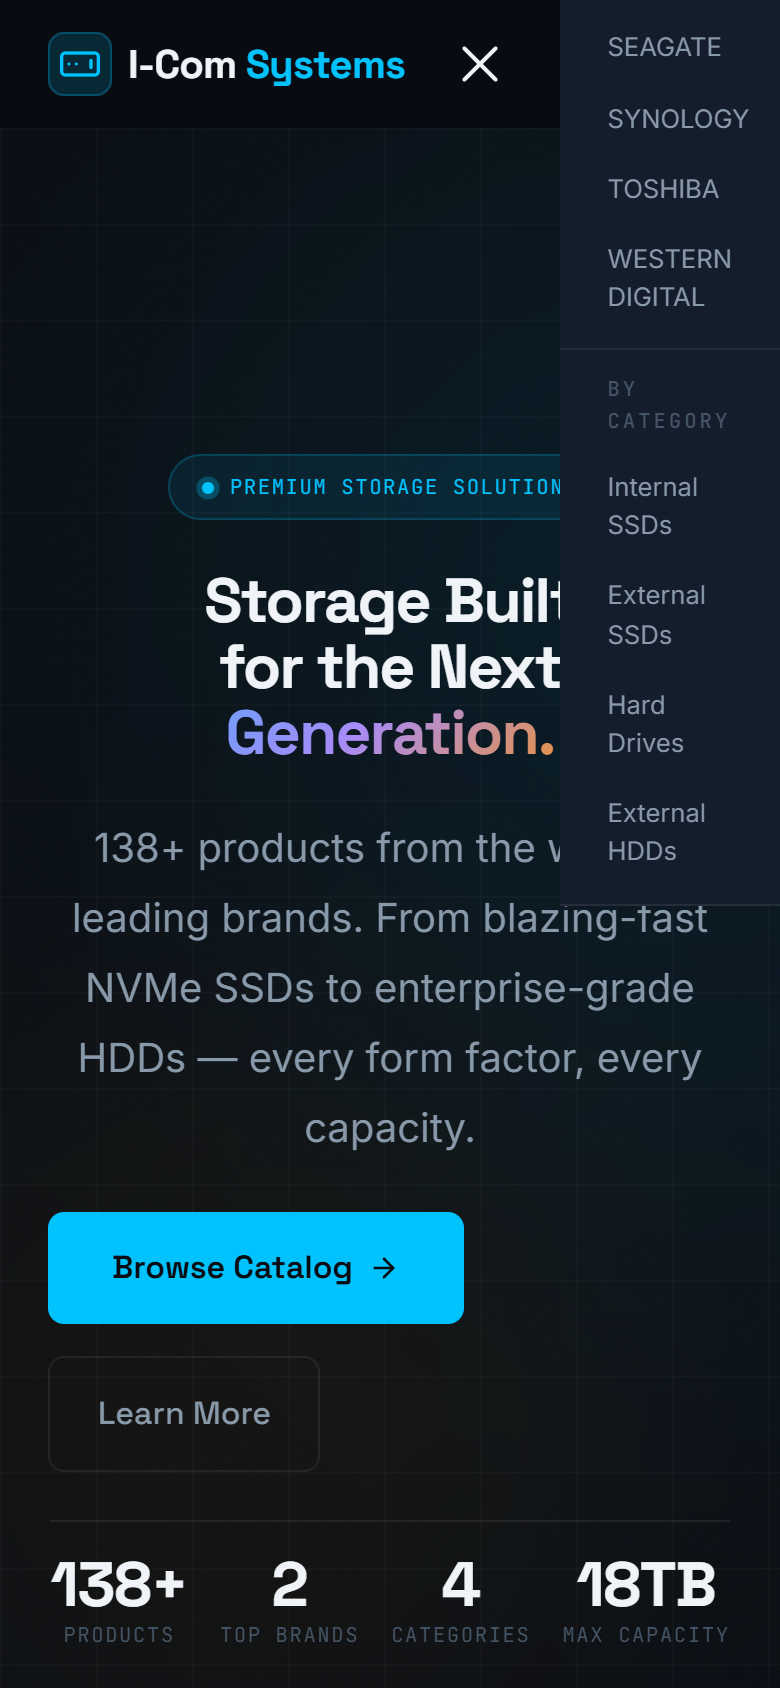
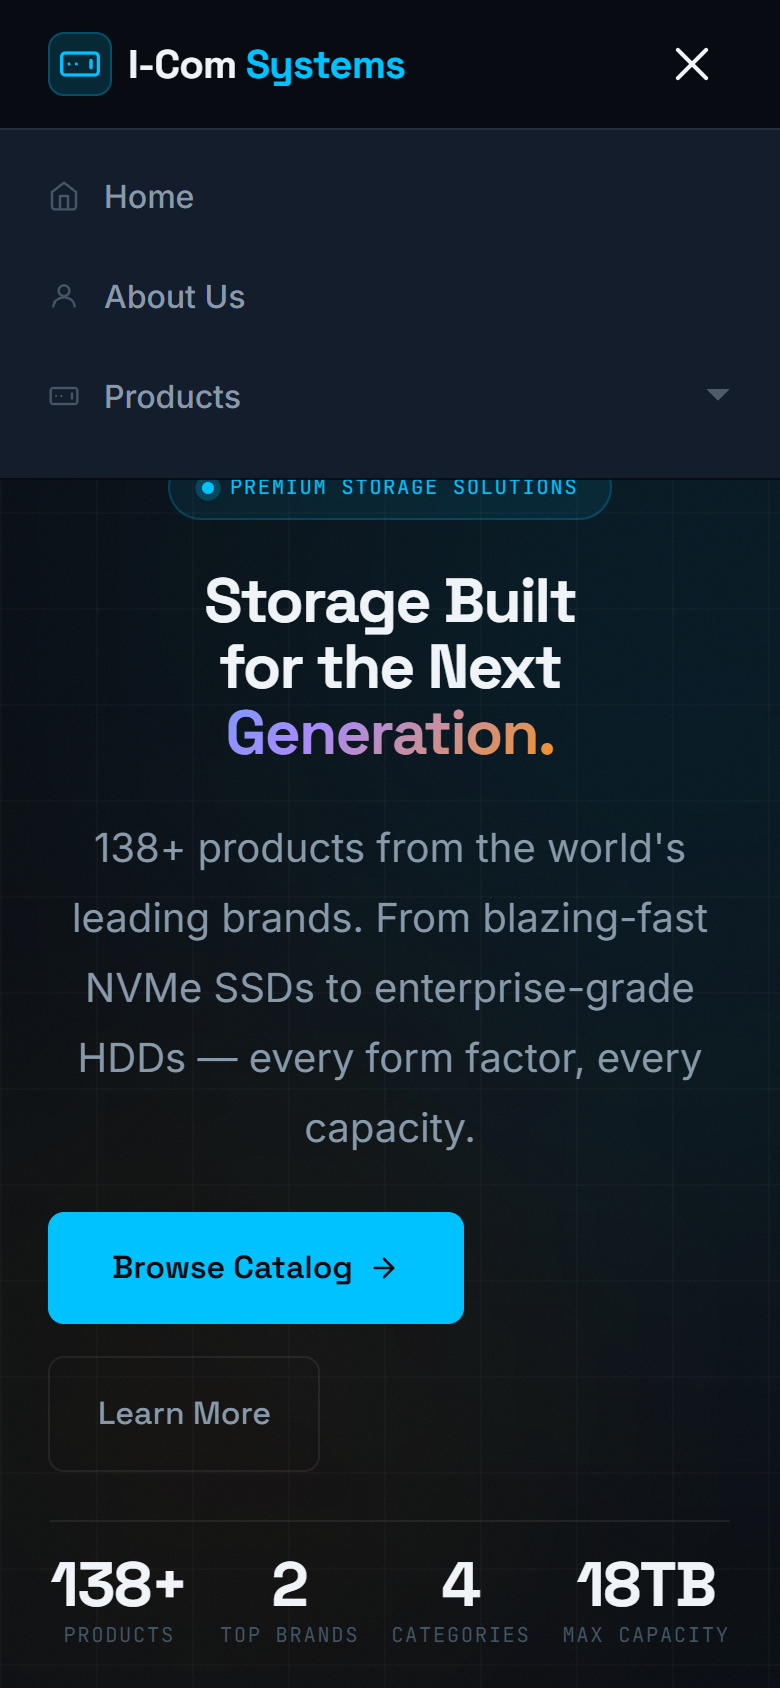
Update mobile nav screenshot and rewrite README
- Retake mobile-02-nav-open.png with the new accordion nav
- Rewrite README: business/client-oriented tone, minimal tech detail,
  screenshots inline with each page section, mobile view section

diff --git a/README.md b/README.md
@@ -1,38 +1,62 @@
 # I-Com Systems
 
-A premium dark-mode product catalog and brochure web app for **I-Com Systems** — a global storage hardware distributor carrying 138+ products across brands including Crucial, Seagate, Samsung, Western Digital, Toshiba, LaCie, Synology, and more.
+A premium online product catalog for **I-Com Systems** — a global distributor of storage hardware carrying 138+ products across the world's leading brands.
 
-Live deployment: [**icomsystems.netlify.app**](https://icomsystems.netlify.app/)
+**Live site: [icomsystems.netlify.app](https://icomsystems.netlify.app/)**
 
 ---
 
-## Screenshots
+## What It Does
 
-### Landing Page — Hero
+Customers can browse the full product catalog, filter by brand, type, and capacity, and view detailed specs for any drive — all in one fast, elegant web experience.
+
+### Key Capabilities
+
+- **Browse 138+ products** across SSDs, HDDs, and external drives
+- **Filter the catalog** by brand, type (SSD/HDD), usage (internal/external), capacity, and name search
+- **Jump directly to a brand** from the navigation dropdown
+- **View product details** — specs, image, and category at a glance
+- **Learn about the company** — history, milestones, team, and awards
+
+---
+
+## Pages
+
+### Home
+The landing page introduces the brand and product range — featuring a hero section with key stats, a live product marquee, category cards with real product counts, and brand-specific product carousels.
+
 ![Hero Section](screenshots/01-hero.png)
 
-### Products Mega-Menu Navigation
+### Products Mega-Menu
+The navigation includes a hover dropdown to browse by brand or product category directly.
+
 ![Mega Menu](screenshots/03-megamenu.png)
 
 ### Product Catalog
+A full filterable catalog with a sidebar for narrowing results. Filters include type, usage, brand, capacity, and name search. Each card links to the product detail page.
+
 ![Product Catalog](screenshots/02-products.png)
 
-### Product Detail Page
+### Product Detail
+A dedicated page per product showing the full image, specs, and breadcrumb navigation.
+
 ![Product Detail](screenshots/04-product-detail.png)
 
-### About Page
+### About
+Company background, founding history, global office locations, a timeline of milestones, team profiles, and an awards carousel.
+
 ![About Page](screenshots/05-about.png)
 
 ---
 
 ## Mobile View
 
-Full mobile responsiveness at 390×844 (iPhone 14). Hamburger nav, stacked layouts, and touch-optimised interactions.
+Fully optimised for phones — the navigation collapses into a clean hamburger menu with an accordion-style Products panel to browse brands and categories.
 
-### Mobile Hero
+### Mobile Home
 ![Mobile Hero](screenshots/mobile-01-hero.png)
 
-### Mobile Navigation (Open)
+### Mobile Navigation
 ![Mobile Nav Open](screenshots/mobile-02-nav-open.png)
 
 ### Mobile Product Catalog
@@ -46,214 +70,36 @@ Full mobile responsiveness at 390×844 (iPhone 14). Hamburger nav, stacked layou
 
 ---
 
-## What the App Does
+## Brands Covered
 
-I-Com Systems is a single-page React application that serves as a **product catalog and company brochure** for a storage hardware distributor. It fetches live product data from a Flask backend, renders a filterable catalog of 138+ drives, and provides individual product detail pages — all wrapped in a premium SAAS-level dark UI.
-
-### Core Features
-
-| Feature | Description |
-|---|---|
-| **Live product data** | Fetched from a Flask/Python backend (`/api/products`), cached client-side |
-| **Filterable catalog** | Filter by Type (SSD/HDD/Other), Usage (Internal/External), Capacity, Brand, and free-text search |
-| **Product detail pages** | Per-product page with specs, image, breadcrumb navigation, routed via React Router |
-| **Brand mega-menu** | Fixed glass nav with a 2-column dropdown — browse by brand or category |
-| **About page** | Company history, stats, awards carousel, and team profiles |
-| **Fully responsive** | Mobile hamburger nav, responsive grid (4 → 3 → 2 → 1 columns) |
+Crucial · Seagate · Samsung · Western Digital · Toshiba · LaCie · Synology · Fyber
 
 ---
 
-## Pages
+## Tech Overview
 
-### `/` — Home
-The landing page is designed at SAAS marketing level:
-
-- **Hero section** — Full-viewport split layout with animated gradient blobs, floating product card, 3 rotating rings, NVMe/capacity/brand floating chips, and a scroll indicator. Stats strip (138+ products, 2 brands, 4 categories, 18TB max).
-- **Product marquee** — Dual-row infinite CSS auto-scroll of product images, pauses on hover.
-- **Features strip** — 4-column highlights: Blazing SSDs, Enterprise Reliability, Top-Tier Brands, Every Form Factor.
-- **Category grid** — 4 live category cards (Internal SSD, External SSD, HDD, External HDD) with real product counts and sample images pulled from the catalog.
-- **Product carousels** — Splide-powered sliders for each brand, showing cards with Quick View modal support.
-- **CTA banner** — Animated closing call-to-action section.
-
-### `/product-page` — Product Catalog
-Full product catalog with a sidebar + main content layout:
-
-- **Catalog hero** — Page banner with animated blob background and live product count.
-- **Sticky sidebar filter** — Custom-styled checkboxes (Type, Usage, Brand), capacity dropdown, and name search. Apply / Reset controls.
-- **Active filter pills** — Shows currently active filters as dismissible tags above the grid.
-- **Product grid** — 4-column responsive card grid per brand section. Cards feature hover lift, shine sweep, and "View Details" overlay. "Show More" per brand to expand beyond the first row.
-- **Hash routing** — Nav mega-menu links (e.g. `#hdr-CRUCIAL`) scroll directly to a brand section.
-
-### `/product/:brand/id/:id` — Product Detail
-Individual product page:
-
-- Gradient mesh hero banner with brand label.
-- Split layout: image frame card (left) + spec table (right) with staggered Framer Motion reveal.
-- Specs: Type, Usage, Capacity.
-- Breadcrumb navigation: Products → Brand → Product name.
-- Back to Products button.
-
-### `/about-page` — About
-Company brochure page:
-
-- **Hero** — Centered full-width section with animated blobs, gradient headline, brand badge row with pulse animation, and 4-stat glassmorphism card (Founded, Products, Offices, Years of Trust).
-- **Awards & Recognition** — Full-width Splide fade carousel of award images with a proper section header.
-- **Company story** — 3-column glassmorphism card: narrative text + location chips + 4 highlight tiles (Headquarters, Industries, Founder, Catalog).
-- **Timeline** — 2-column grid of milestone cards (1954 → 1980s → 2000s → Today) with glowing dot markers and `whileInView` stagger animations.
-- **Team** — Profile cards with photo, role, tag badge, bio, and mini metrics.
-
-### `/about-page` — 404
-Custom not-found page with a back-to-home button.
-
----
-
-## Tech Stack
-
-| Layer | Technology |
+| | |
 |---|---|
-| Frontend framework | React 18 (Create React App) |
-| Routing | React Router v6 |
-| Animations | Framer Motion |
-| Carousels | `@splidejs/react-splide` |
-| Backend | Flask (Python) — serves CSV product data via `/api/products` |
-| Styling | Pure CSS with a full CSS custom property design system |
-| Fonts | Inter (body) · Space Grotesk (headings) · JetBrains Mono (specs/labels) |
+| Frontend | React 18, React Router v6, Framer Motion |
+| Styling | CSS custom properties design system (no UI framework) |
+| Carousels | Splide |
+| Backend | Flask (Python) — serves product data from CSV via `/api/products` |
+| Fonts | Space Grotesk · Inter · JetBrains Mono |
 | Deployment | Netlify (frontend) |
 
----
-
-## Design System
-
-All design tokens live in `src/index.css` as CSS custom properties:
-
-```
-Palette:   --color-bg-base #080c12  ·  --color-accent-primary #00c2ff  ·  --color-accent-secondary #ff9500
-Spacing:   8pt grid — --space-1 (4px) through --space-32 (128px)
-Type:      1.25 Major Third scale — --text-xs through --text-4xl
-Shadows:   --shadow-sm/md/lg/xl  ·  --glow-primary  ·  --glow-card
-Radii:     --radius-sm (4px) through --radius-full
-Transitions: --transition-fast (150ms) through --transition-spring (500ms spring)
-```
-
-Key visual treatments:
-- **Glassmorphism** — `backdrop-filter: blur()` + `rgba` fills on nav, cards, modals, and dropdowns
-- **Animated blobs** — Radial gradient `div`s with `filter: blur()` drifting via CSS keyframes
-- **Framer Motion** — `whileInView` stagger reveals, `AnimatePresence` for dropdown/modal enter/exit, spring transitions on cards
-- **CSS marquee** — Pure CSS infinite scroll (`translateX(-50%)`) with duplicated item arrays, pauses on hover
-
----
-
-## Project Structure
-
-```
-src/
-├── components/
-│   ├── HomePage/
-│   │   ├── HeroSection.jsx / .css      # Full-viewport hero
-│   │   ├── ProductMarquee.jsx / .css   # Infinite CSS scroll strip
-│   │   ├── FeaturesStrip.jsx / .css    # 4-column feature highlights
-│   │   ├── CategoryGrid.jsx / .css     # Live category cards
-│   │   ├── SpliderSet.jsx              # Brand carousel orchestrator
-│   │   ├── MySplider.jsx / .css        # Splide carousel wrapper
-│   │   ├── ProductCard.jsx / .css      # Card + Quick View modal
-│   │   ├── CTABanner.jsx / .css        # Closing CTA
-│   │   ├── MyHeader.jsx / .css         # Fixed glass nav + mega-menu
-│   │   ├── MyFooter.jsx                # Dark footer
-│   │   └── Home.jsx                   # Home page orchestrator
-│   ├── ProductPage/
-│   │   ├── ProductsHome.jsx / .css     # Catalog layout + hero
-│   │   ├── Filter.jsx / .css           # Sidebar filter panel
-│   │   ├── FilterParams.jsx / .css     # Active filter pills
-│   │   └── AvailableProducts.jsx       # Filtered grid renderer
-│   ├── AboutPage/
-│   │   ├── AboutPage.jsx               # Page orchestrator + hero + timeline
-│   │   ├── Awards.jsx                  # Awards carousel section
-│   │   ├── CompanyInfo.jsx             # Glassmorphism story card
-│   │   └── PersonalInfo.jsx            # Team profile cards
-│   └── Layout/
-│       └── Layout.jsx / .css           # Route wrapper with page transitions
-├── scripts/
-│   ├── FetchData.js                    # API fetch + client-side cache
-│   ├── HelperFunctions.js              # processData(), imagesContext
-│   ├── CreateCards.js                  # JSX card + section header factory
-│   ├── FilterUtilities.js              # Filter logic, checkbox renderers
-│   └── SearchFunction.js              # Name search utility
-├── assets/                            # Award images (image1–5.jpg)
-└── index.css                          # Full design system (tokens + reset + utils)
-
-screenshots/                           # App screenshots for documentation
-public/
-└── index.html                         # Google Fonts preconnect
-```
-
----
-
-## Getting Started
-
-### Prerequisites
-
-- Node.js 16+
-- Python 3 + Flask (for the backend data server)
-
-### Install & Run
+### Running Locally
 
 ```bash
-# Install frontend dependencies
-npm install
-
-# Start the Flask backend (in a separate terminal)
-cd src/scripts
-python app.py        # runs on http://localhost:5000
-
-# Start the React dev server
-npm start            # runs on http://localhost:3000
+npm install && npm start        # React dev server → localhost:3000
+cd src/scripts && python app.py # Flask backend  → localhost:5000
 ```
-
-### Build for Production
 
 ```bash
-npm run build
+npm run build                   # Production build → /build
 ```
-
-The optimised output is placed in `build/`. Deploy to any static host (Netlify, Vercel, etc.) — ensure your host proxies `/api/*` to the Flask backend.
-
----
-
-## Data Flow
-
-```
-Flask backend (app.py)
-  └── reads product CSVs
-  └── exposes GET /api/products  →  { brand: { Name, Capacity, Usage, Type, ... } }
-
-FetchData.js
-  └── fetches on app load, caches in sessionStorage
-  └── passes raw data down as props
-
-HelperFunctions.js → processData()
-  └── flattens data, attaches images via require.context
-  └── returns [productArray, brandNames]
-
-Components consume props — no Redux, no external state library
-```
-
----
-
-## Brand Coverage
-
-| Brand | Types |
-|---|---|
-| Crucial | Internal SSDs, External SSDs, Portable Drives |
-| Seagate | HDDs, External HDDs, Portable Drives |
-| Samsung | Internal SSDs |
-| Western Digital | HDDs, External HDDs, SSDs |
-| Toshiba | HDDs, External HDDs |
-| LaCie | External HDDs, Portable Drives |
-| Synology | NAS Drives |
-| Fyber | SSDs |
 
 ---
 
 ## License
 
-This project is a personal/portfolio project. All product names and brand assets belong to their respective owners.
+Personal/portfolio project. All product names and brand assets belong to their respective owners.
